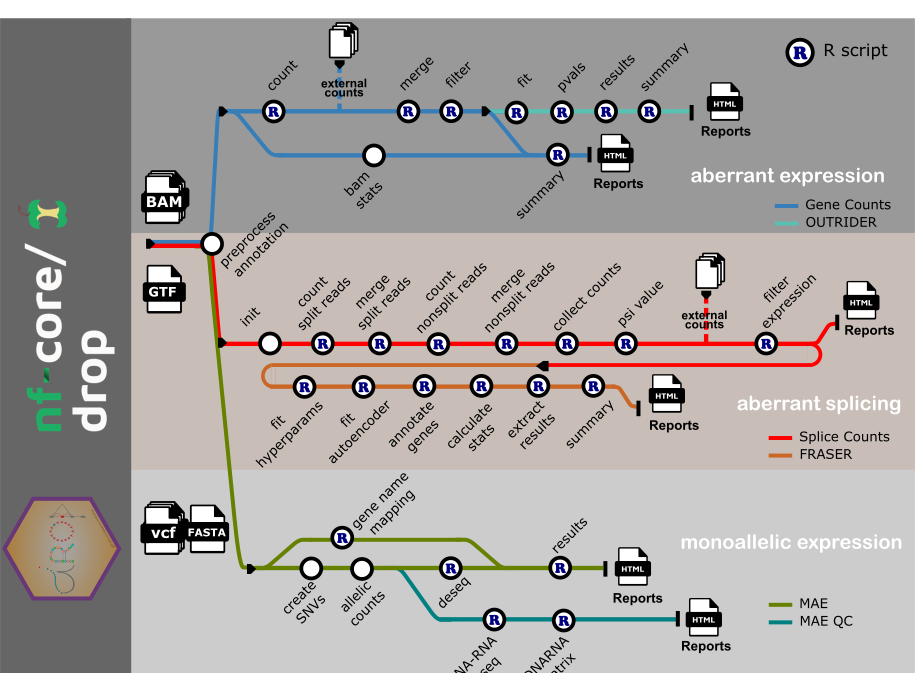
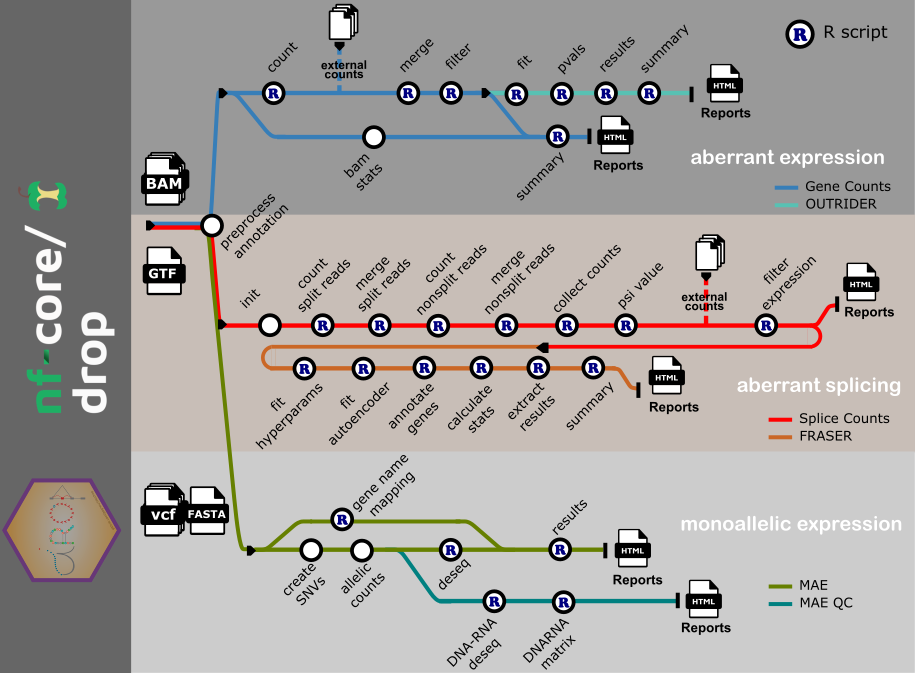
README

diff --git a/README.md b/README.md
@@ -20,52 +20,60 @@
 
 ## Introduction
 
-**nf-core/drop** is a bioinformatics pipeline that ...
-
-<!-- TODO nf-core:
-   Complete this sentence with a 2-3 sentence summary of what types of data the pipeline ingests, a brief overview of the
-   major pipeline sections and the types of output it produces. You're giving an overview to someone new
-   to nf-core here, in 15-20 seconds. For an example, see https://github.com/nf-core/rnaseq/blob/master/README.md#introduction
--->
+**nf-core/drop**(Detection of RNA Outliers Pipeline) is a bioinformatics pipeline that detects aberrant expression, aberrant splicing, and mono-allelic expression from raw RNA sequencing data.
 
 ![A high-level diagram of the DROP workflow in a metro map style](docs/images/drop_metromap.png)
 
-<!-- TODO nf-core: Fill in short bullet-pointed list of the default steps in the pipeline -->1. Read QC ([`FastQC`](https://www.bioinformatics.babraham.ac.uk/projects/fastqc/))2. Present QC for raw reads ([`MultiQC`](http://multiqc.info/))
+- aberrant expression
+  1. Compute read count matrix ([`GenomicAlignments`](https://github.com/Bioconductor/GenomicAlignments))
+  2. Detect expression outliers ([`OUTRIDER`](https://github.com/gagneurlab/OUTRIDER/))
+- aberrant splicing
+  1. Count split reads and non-split reads ([`GenomicAlignments`](https://github.com/Bioconductor/GenomicAlignments)) and ([`Subread`](https://bioconductor.org/packages/devel/bioc/html/Rsubread.html))
+  2. Detect aberrant splicing events ([`FRASER`](https://github.com/gagneurlab/FRASER/))
+- mono-allelic expression
+  1. Compute allelic counts (GATK ASEReadCounter)
+  2. Detect aberrant mono-allelically expressed genes ([`DESeq2`](https://bioconductor.org/packages/release/bioc/html/DESeq2.html))
+- Present QC Reports ([`MultiQC`](http://multiqc.info/))
 
 ## Usage
 
 > [!NOTE]
 > If you are new to Nextflow and nf-core, please refer to [this page](https://nf-co.re/docs/usage/installation) on how to set-up Nextflow. Make sure to [test your setup](https://nf-co.re/docs/usage/introduction#how-to-run-a-pipeline) with `-profile test` before running the workflow on actual data.
 
-<!-- TODO nf-core: Describe the minimum required steps to execute the pipeline, e.g. how to prepare samplesheets.
-     Explain what rows and columns represent. For instance (please edit as appropriate):
-
 First, prepare a samplesheet with your input data that looks as follows:
 
-`samplesheet.csv`:
+`samplesheet.tsv`:
 
-```csv
-sample,fastq_1,fastq_2
-CONTROL_REP1,AEG588A1_S1_L002_R1_001.fastq.gz,AEG588A1_S1_L002_R2_001.fastq.gz
-```
+| RNA_ID  | RNA_BAM_FILE | DROP_GROUP          | STRAND | DNA_VCF_FILE      | DNA_ID  | GENOME |
+| ------- | ------------ | ------------------- | ------ | ----------------- | ------- | ------ |
+| HG00096 | HG00096.bam  | outrider,mae,all    | no     | demo_chr21.vcf.gz | HG00096 | ucsc   |
+| HG00103 | HG00103.bam  | fraser,mae,all      | no     | demo_chr21.vcf.gz | HG00103 | ucsc   |
+| HG00105 | HG00105.bam  | outrider,fraser,all | no     |                   |         |        |
 
-Each row represents a fastq file (single-end) or a pair of fastq files (paired end).
+Each row requires an unique RNA_ID, a BAM file, DROP_GROUP and STRAND. For MAE additional DNA_ID, DNA_VCF_FILE and GENOME.
 
--->
+Here is an example of a [samplesheet](assets/samplesheet.tsv). Of note, to detect outliers confidently, a sufficiently large sample size is needed (>30 samples).
 
 Now, you can run the pipeline using:
 
-<!-- TODO nf-core: update the following command to include all required parameters for a minimal example -->
-
 ```bash
 nextflow run nf-core/drop \
-   -profile <docker/singularity/.../institute> \
-   --input samplesheet.csv \
-   --outdir <OUTDIR>
+   -profile <docker/singularity/conda/...> \
+   --input samplesheet.tsv \
+   --outdir <OUTDIR> \
+   --genome hg19 \
+   --gene_annotation <path/to/gene/annotation/yaml> \
+   --ae_run true \
+   --ae_groups <DROP_GROUP1,DROP_GROUP2,...> \        #e.g. --ae_groups 'outrider,all'
+   --as_run true  \
+   --as_groups <DROP_GROUP1,DROP_GROUP2,...> \        #e.g. --as_groups 'fraser,all'
+   --mae_run true  \
+   --mae_groups <DROP_GROUP1,DROP_GROUP2,...> \       #e.g. --mae_groups 'mae'
+   --ucsc_fasta <path/to/fasta>
 ```
 
 > [!WARNING]
-> Please provide pipeline parameters via the CLI or Nextflow `-params-file` option. Custom config files including those provided by the `-c` Nextflow option can be used to provide any configuration _**except for parameters**_; see [docs](https://nf-co.re/docs/usage/getting_started/configuration#custom-configuration-files).
+> Please provide pipeline parameters via the CLI or Nextflow `-params-file` option. Custom config files including those provided by the `-c` Nextflow option can be used to provide any configuration _**except for parameters**_; see [docs](https://nf-co.re/docs/usage/getting_started/configuration#custom-configuration-files). Here is an example of a [test custom config](conf/test.config).
 
 For more details and further functionality, please refer to the [usage documentation](https://nf-co.re/drop/usage) and the [parameter documentation](https://nf-co.re/drop/parameters).
 
@@ -77,11 +85,22 @@ For more details about the output files and reports, please refer to the
 
 ## Credits
 
-nf-core/drop was originally written by Michaela Mueller, Vicente Yepez, Christian Mertes, Daniela Andrade, Cristian Sandu, Andrew Behrens, Julien Gagneur.
+nf-core/drop was originally written by Vicente Yepez, Christian Mertes, Michaela Mueller, Daniela Andrade, Leonhard Wachutka from the Gagneur lab at the Department of Informatics and School of Medicine of the Technical University of Munich (TUM) and The German Human Genome-Phenome Archive (GHGA).
+
+The Nextflow DSL2 conversion of the pipeline was lead by Nicolas Vannieuwkerke and Yun Wang.
+
+Main developers:
+
+- [Nicolas Vannieuwkerke](https://github.com/nvnieuwk)
+- [Yun Wang](https://github.com/fulaibaowang)
 
 We thank the following people for their extensive assistance in the development of this pipeline:
 
-<!-- TODO nf-core: If applicable, make list of people who have also contributed -->
+- [Ata Jadid Ahari](https://github.com/AtaJadidAhari)
+- [Drew Behrens](https://github.com/drewjbeh)
+
+<!-- TODO Acknowledgements -->
+<!-- GHGA -->
 
 ## Contributions and Support
 